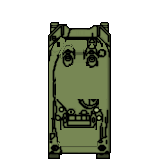
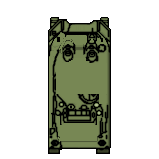
fixes some mortar issues

Changed region(s): [[0.3019, 0.5535, 0.7044, 1.0], [0.3019, 0.1006, 0.7044, 0.5283]]

diff --git a/src/com/glevel/wwii/game/models/units/categories/Unit.java b/src/com/glevel/wwii/game/models/units/categories/Unit.java
@@ -22,6 +22,7 @@ import com.glevel.wwii.game.models.units.Soldier;
 import com.glevel.wwii.game.models.units.Tank;
 import com.glevel.wwii.game.models.weapons.Knife;
 import com.glevel.wwii.game.models.weapons.Turret;
+import com.glevel.wwii.game.models.weapons.categories.IndirectWeapon;
 import com.glevel.wwii.game.models.weapons.categories.Weapon;
 
 public abstract class Unit extends GameElement implements MovingElement {
@@ -271,7 +272,8 @@ public abstract class Unit extends GameElement implements MovingElement {
             return;
         }
 
-        if (target.isDead() || !MapLogic.canSee(battle.getMap(), this, target)) {
+        if (target.isDead() || !(getWeapons().get(0) instanceof IndirectWeapon)
+                && !MapLogic.canSee(battle.getMap(), this, target)) {
             // if target is dead or is not visible anymore, stop to shoot
             setOrder(new DefendOrder());
             return;
@@ -295,7 +297,7 @@ public abstract class Unit extends GameElement implements MovingElement {
             if (!isRotatingOver) {
                 return;
             }
-        } else {
+        } else if (canMove()) {
             RotationStatus rotationStatus = updateUnitRotation(target.getSprite().getX(), target.getSprite().getY());
             if (rotationStatus == RotationStatus.ROTATING) {
                 return;
@@ -333,7 +335,7 @@ public abstract class Unit extends GameElement implements MovingElement {
                 }
 
                 // increase target panic
-                target.getShots(this, battle.getMap());
+                target.getShots(battle, this);
 
                 if (!target.isDead()) {// prevent the multiple frags bug
 
@@ -445,7 +447,7 @@ public abstract class Unit extends GameElement implements MovingElement {
         } else if (order instanceof DefendOrder) {
             // search for enemies
             for (Unit u : battle.getEnemies(this)) {
-                if (!u.isDead() && MapLogic.canSee(battle.getMap(), this, u)) {
+                if (!u.isDead() && MapLogic.canSee(battle.getMap(), this, u) && getBestWeapon(battle, u) != null) {
                     order = new FireOrder(u);
                     return;
                 }
@@ -467,7 +469,7 @@ public abstract class Unit extends GameElement implements MovingElement {
         return health == InjuryState.DEAD;
     }
 
-    public void getShots(Unit shooter, Map map) {
+    public void getShots(Battle battle, Unit shooter) {
         // increase panic
         if (panic < 10) {
             panic++;
@@ -475,7 +477,7 @@ public abstract class Unit extends GameElement implements MovingElement {
 
         // fight back
         if (order == null || order instanceof DefendOrder || order instanceof MoveOrder && Math.random() < 0.3) {
-            if (MapLogic.canSee(map, this, shooter)) {
+            if (MapLogic.canSee(battle.getMap(), this, shooter) && getBestWeapon(battle, shooter) != null) {
                 setOrder(new FireOrder(shooter));
             }
         }
@@ -499,12 +501,12 @@ public abstract class Unit extends GameElement implements MovingElement {
     public void died(Battle battle) {
         if (this instanceof Soldier) {
             setTilePosition(battle, null);
+            sprite.setZIndex(10);
         }
 
         if (!sprite.isVisible()) {
             sprite.setVisible(true);
         }
-        sprite.setZIndex(10);
         sprite.setCanBeDragged(false);
         order = null;
         // draw sprite

diff --git a/src/com/glevel/wwii/game/AI.java b/src/com/glevel/wwii/game/AI.java
@@ -5,9 +5,14 @@ import java.util.List;
 
 import com.glevel.wwii.game.data.BattlesData;
 import com.glevel.wwii.game.data.UnitsData;
+import com.glevel.wwii.game.logic.MapLogic;
 import com.glevel.wwii.game.models.Battle;
 import com.glevel.wwii.game.models.Player;
 import com.glevel.wwii.game.models.map.Tile;
+import com.glevel.wwii.game.models.orders.DefendOrder;
+import com.glevel.wwii.game.models.orders.FireOrder;
+import com.glevel.wwii.game.models.orders.HideOrder;
+import com.glevel.wwii.game.models.orders.MoveOrder;
 import com.glevel.wwii.game.models.units.Soldier;
 import com.glevel.wwii.game.models.units.Tank;
 import com.glevel.wwii.game.models.units.categories.Unit;
@@ -23,22 +28,18 @@ public class AI {
 
     public static void updateUnitOrder(Battle battle, Unit unit) {
         // TODO
-        // for (Unit u : battle.getEnemies(unit)) {
-        // if (!u.isDead() && MapLogic.getDistanceBetween(unit, u) < 30 *
-        // GameUtils.PIXEL_BY_METER
-        // && MapLogic.canSee(battle.getMap(), unit, u)) {
-        // unit.setOrder(new FireOrder(u));
-        // return;
-        // }
-        // }
-        //
-        // if (unit.getOrder() == null || unit.getOrder() instanceof DefendOrder
-        // || unit.getOrder() instanceof HideOrder) {
-        // unit.setOrder(new MoveOrder((float) Math.random() *
-        // battle.getMap().getWidth() * GameUtils.PIXEL_BY_TILE,
-        // (float) Math.random() * battle.getMap().getHeight() *
-        // GameUtils.PIXEL_BY_TILE));
-        // }
+        for (Unit u : battle.getEnemies(unit)) {
+            if (!u.isDead() && MapLogic.getDistanceBetween(unit, u) < 30 * GameUtils.PIXEL_BY_METER
+                    && MapLogic.canSee(battle.getMap(), unit, u)) {
+                unit.setOrder(new FireOrder(u));
+                return;
+            }
+        }
+
+        if (unit.getOrder() == null || unit.getOrder() instanceof DefendOrder || unit.getOrder() instanceof HideOrder) {
+            unit.setOrder(new MoveOrder((float) Math.random() * battle.getMap().getWidth() * GameUtils.PIXEL_BY_TILE,
+                    (float) Math.random() * battle.getMap().getHeight() * GameUtils.PIXEL_BY_TILE));
+        }
 
     }
 

diff --git a/src/com/glevel/wwii/game/models/units/categories/Vehicle.java b/src/com/glevel/wwii/game/models/units/categories/Vehicle.java
@@ -15,6 +15,7 @@ import com.glevel.wwii.game.models.map.Map;
 import com.glevel.wwii.game.models.map.Tile;
 import com.glevel.wwii.game.models.map.Tile.TerrainType;
 import com.glevel.wwii.game.models.orders.DefendOrder;
+import com.glevel.wwii.game.models.orders.FireOrder;
 import com.glevel.wwii.game.models.orders.MoveOrder;
 import com.glevel.wwii.game.models.orders.Order;
 import com.glevel.wwii.game.models.units.Soldier;
@@ -302,6 +303,24 @@ public abstract class Vehicle extends Unit {
 
     @Override
     public void fire(Battle battle, Unit target) {
+        // indirect shoot
+        if (target == null) {
+            FireOrder fireOrder = (FireOrder) getOrder();
+
+            // only rotate
+            if (getWeapons().get(0) instanceof Turret) {
+                // turrets take time to rotate
+                Turret turret = (Turret) getWeapons().get(0);
+                boolean isRotatingOver = turret.rotateTurret(sprite, fireOrder.getXDestination(),
+                        fireOrder.getYDestination());
+                if (!isRotatingOver) {
+                    return;
+                }
+            }
+
+            setOrder(new DefendOrder());
+            return;
+        }
 
         if (target.isDead() || !MapLogic.canSee(battle.getMap(), this, target)) {
             // if target is dead or is not visible anymore, stop to shoot
@@ -372,7 +391,7 @@ public abstract class Vehicle extends Unit {
                     }
 
                     // increase target panic
-                    target.getShots(this, battle.getMap());
+                    target.getShots(battle, this);
 
                     if (!target.isDead()) {// prevent the multiple frags bug
 

diff --git a/src/com/glevel/wwii/game/InputManager.java b/src/com/glevel/wwii/game/InputManager.java
@@ -182,7 +182,11 @@ public class InputManager implements IOnSceneTouchListener, IScrollDetectorListe
                 if (!unit.isDead() && g != null && g.getGameElement() instanceof Unit && g != selectedElement
                         && !((Unit) g.getGameElement()).isDead()
                         && ((Unit) g.getGameElement()).getArmy() != ((Unit) selectedElement.getGameElement()).getArmy()) {
-                    unit.setOrder(new FireOrder((Unit) g.getGameElement()));
+                    if (unit.getWeapons().get(0) instanceof IndirectWeapon) {
+                        unit.setOrder(new FireOrder(x, y));
+                    } else {
+                        unit.setOrder(new FireOrder((Unit) g.getGameElement()));
+                    }
                 } else if (!unit.isDead() && unit.canMove()) {
                     unit.setOrder(new MoveOrder(x, y));
                 } else if (!unit.canMove() && unit.getWeapons().get(0) instanceof Turret) {

diff --git a/src/com/glevel/wwii/game/models/weapons/categories/DeflectionWeapon.java b/src/com/glevel/wwii/game/models/weapons/categories/DeflectionWeapon.java
@@ -74,7 +74,7 @@ public abstract class DeflectionWeapon extends Weapon {
                                                                                // tiles
 
                     // increase panic
-                    unit.getShots(shooter, battle.getMap());
+                    unit.getShots(battle, shooter);
                     if (distanceToImpact < explosionSizeInTiles * EXPLOSION_EPICENTER_SIZE_FACTOR) {
                         // great damage in the explosion's epicenter
                         resolveDamageDiceRoll(CHANCE_TO_HIT_IN_EPICENTER, shooter, unit);
